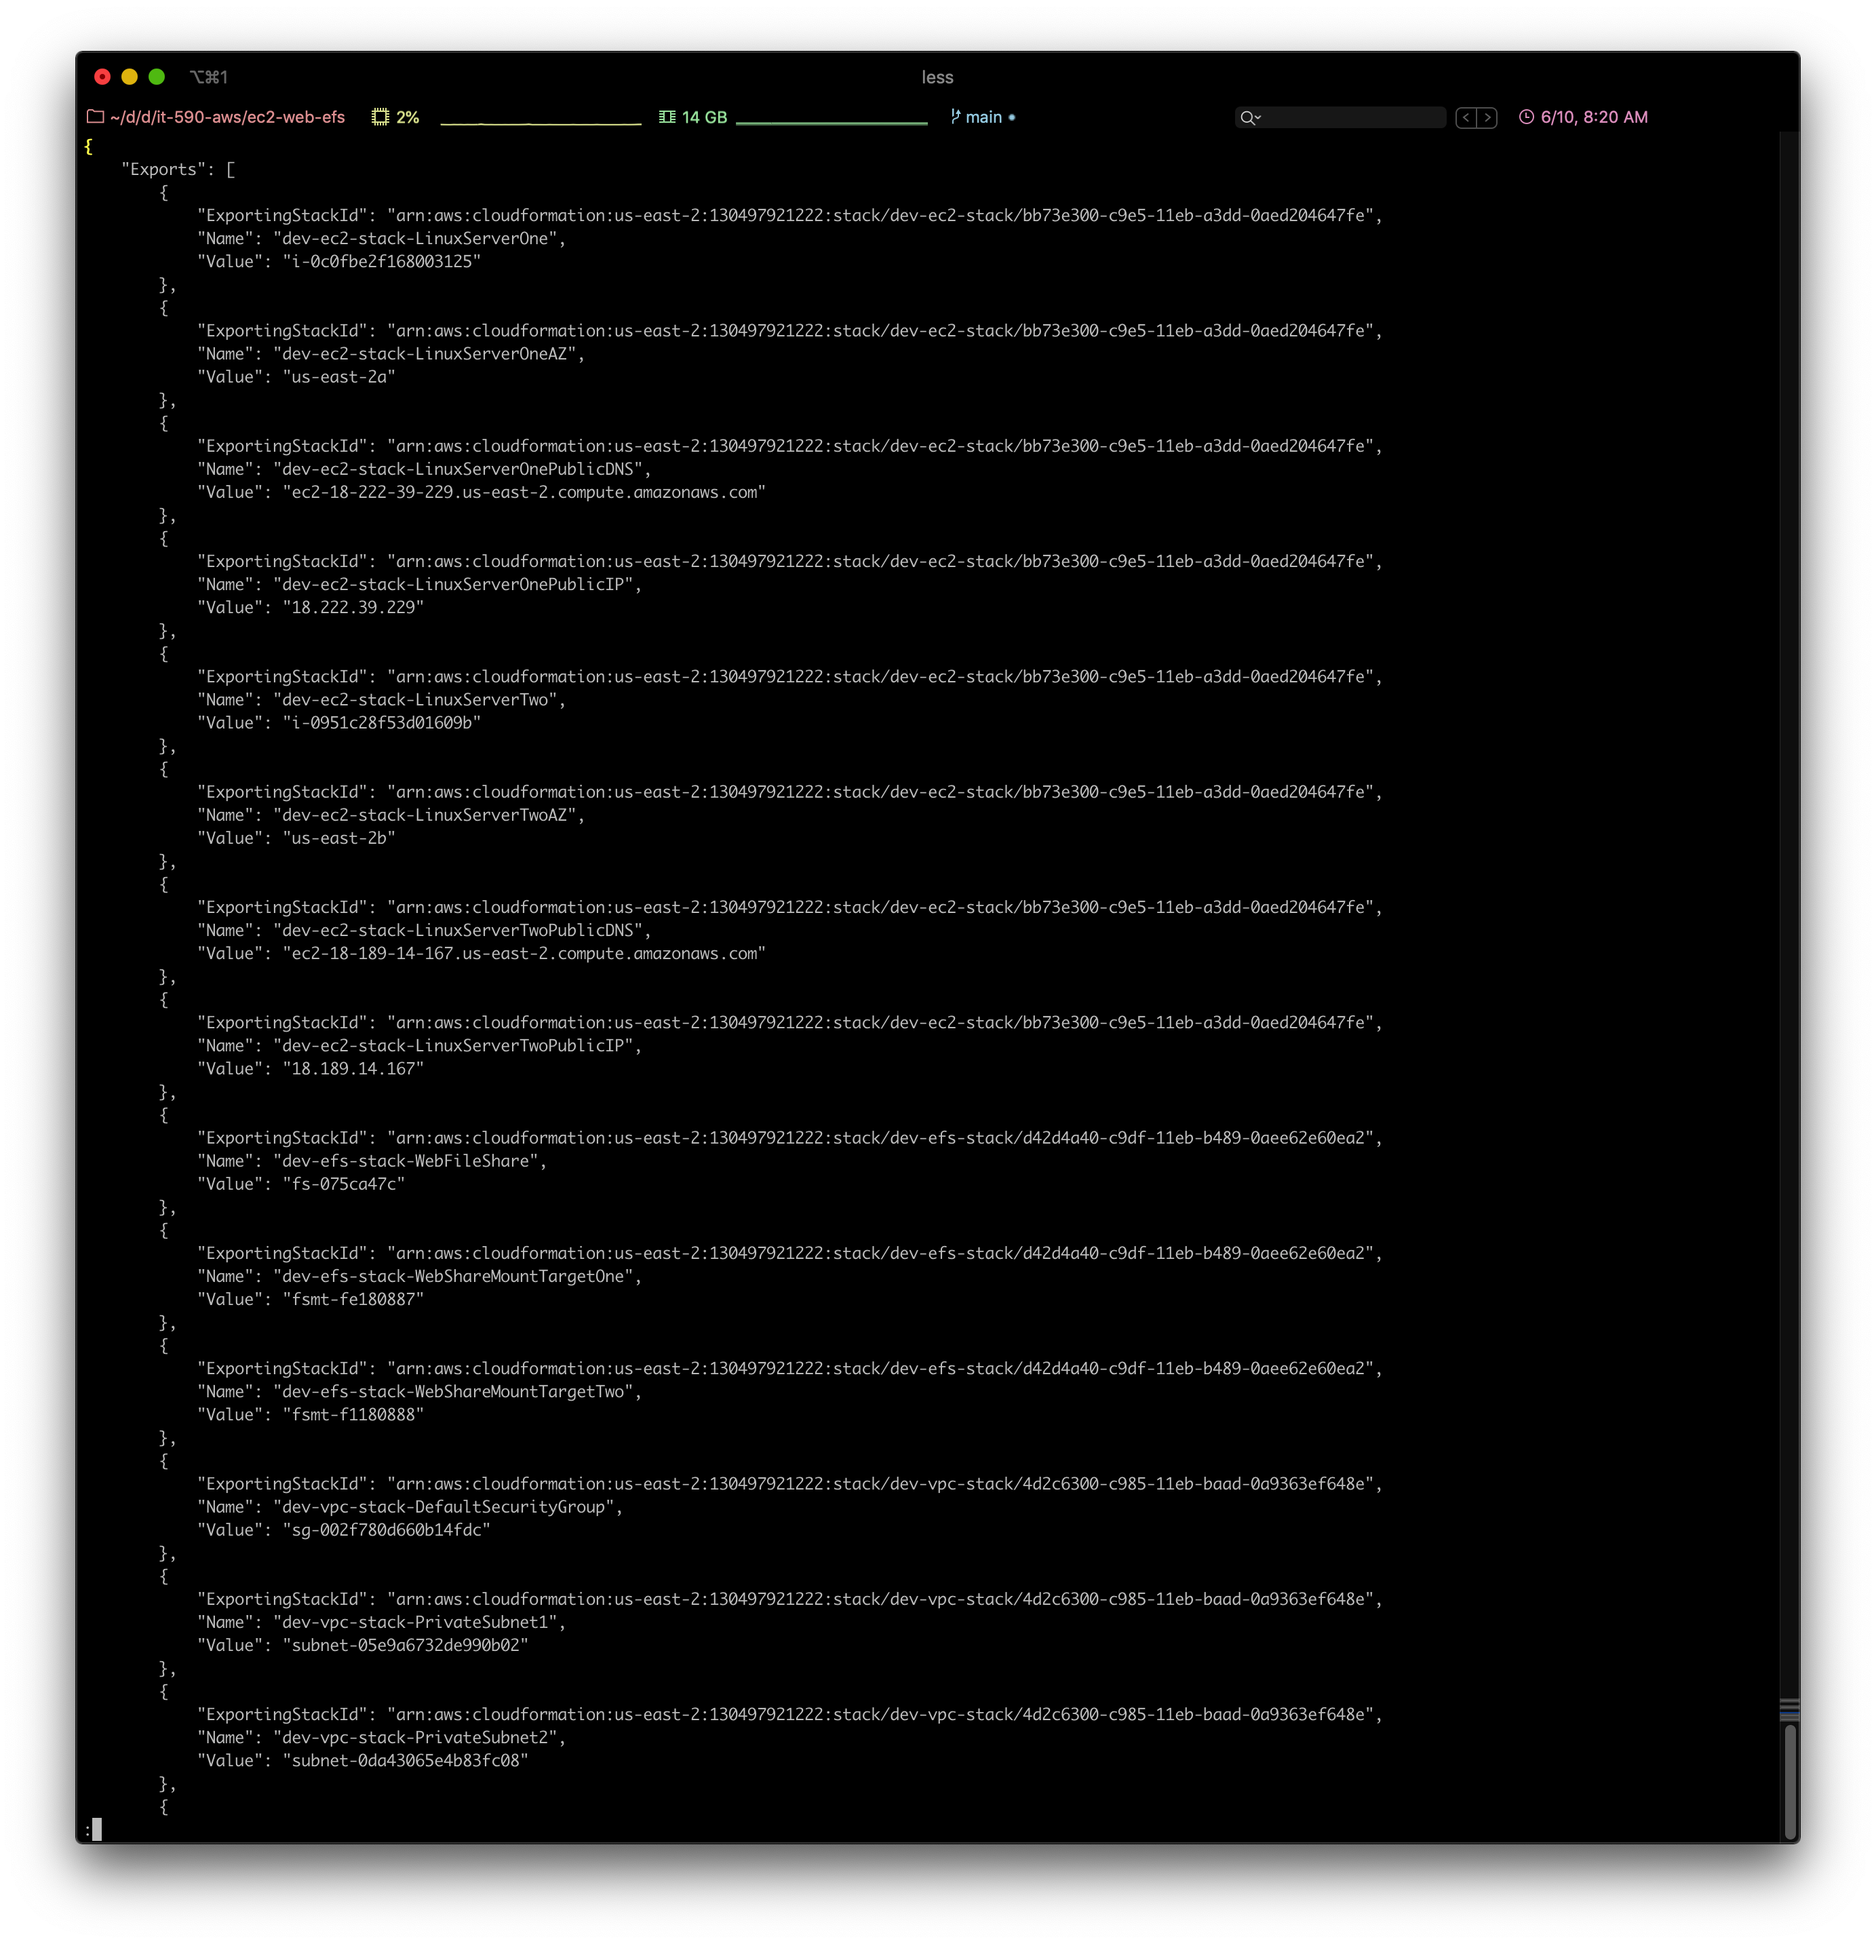
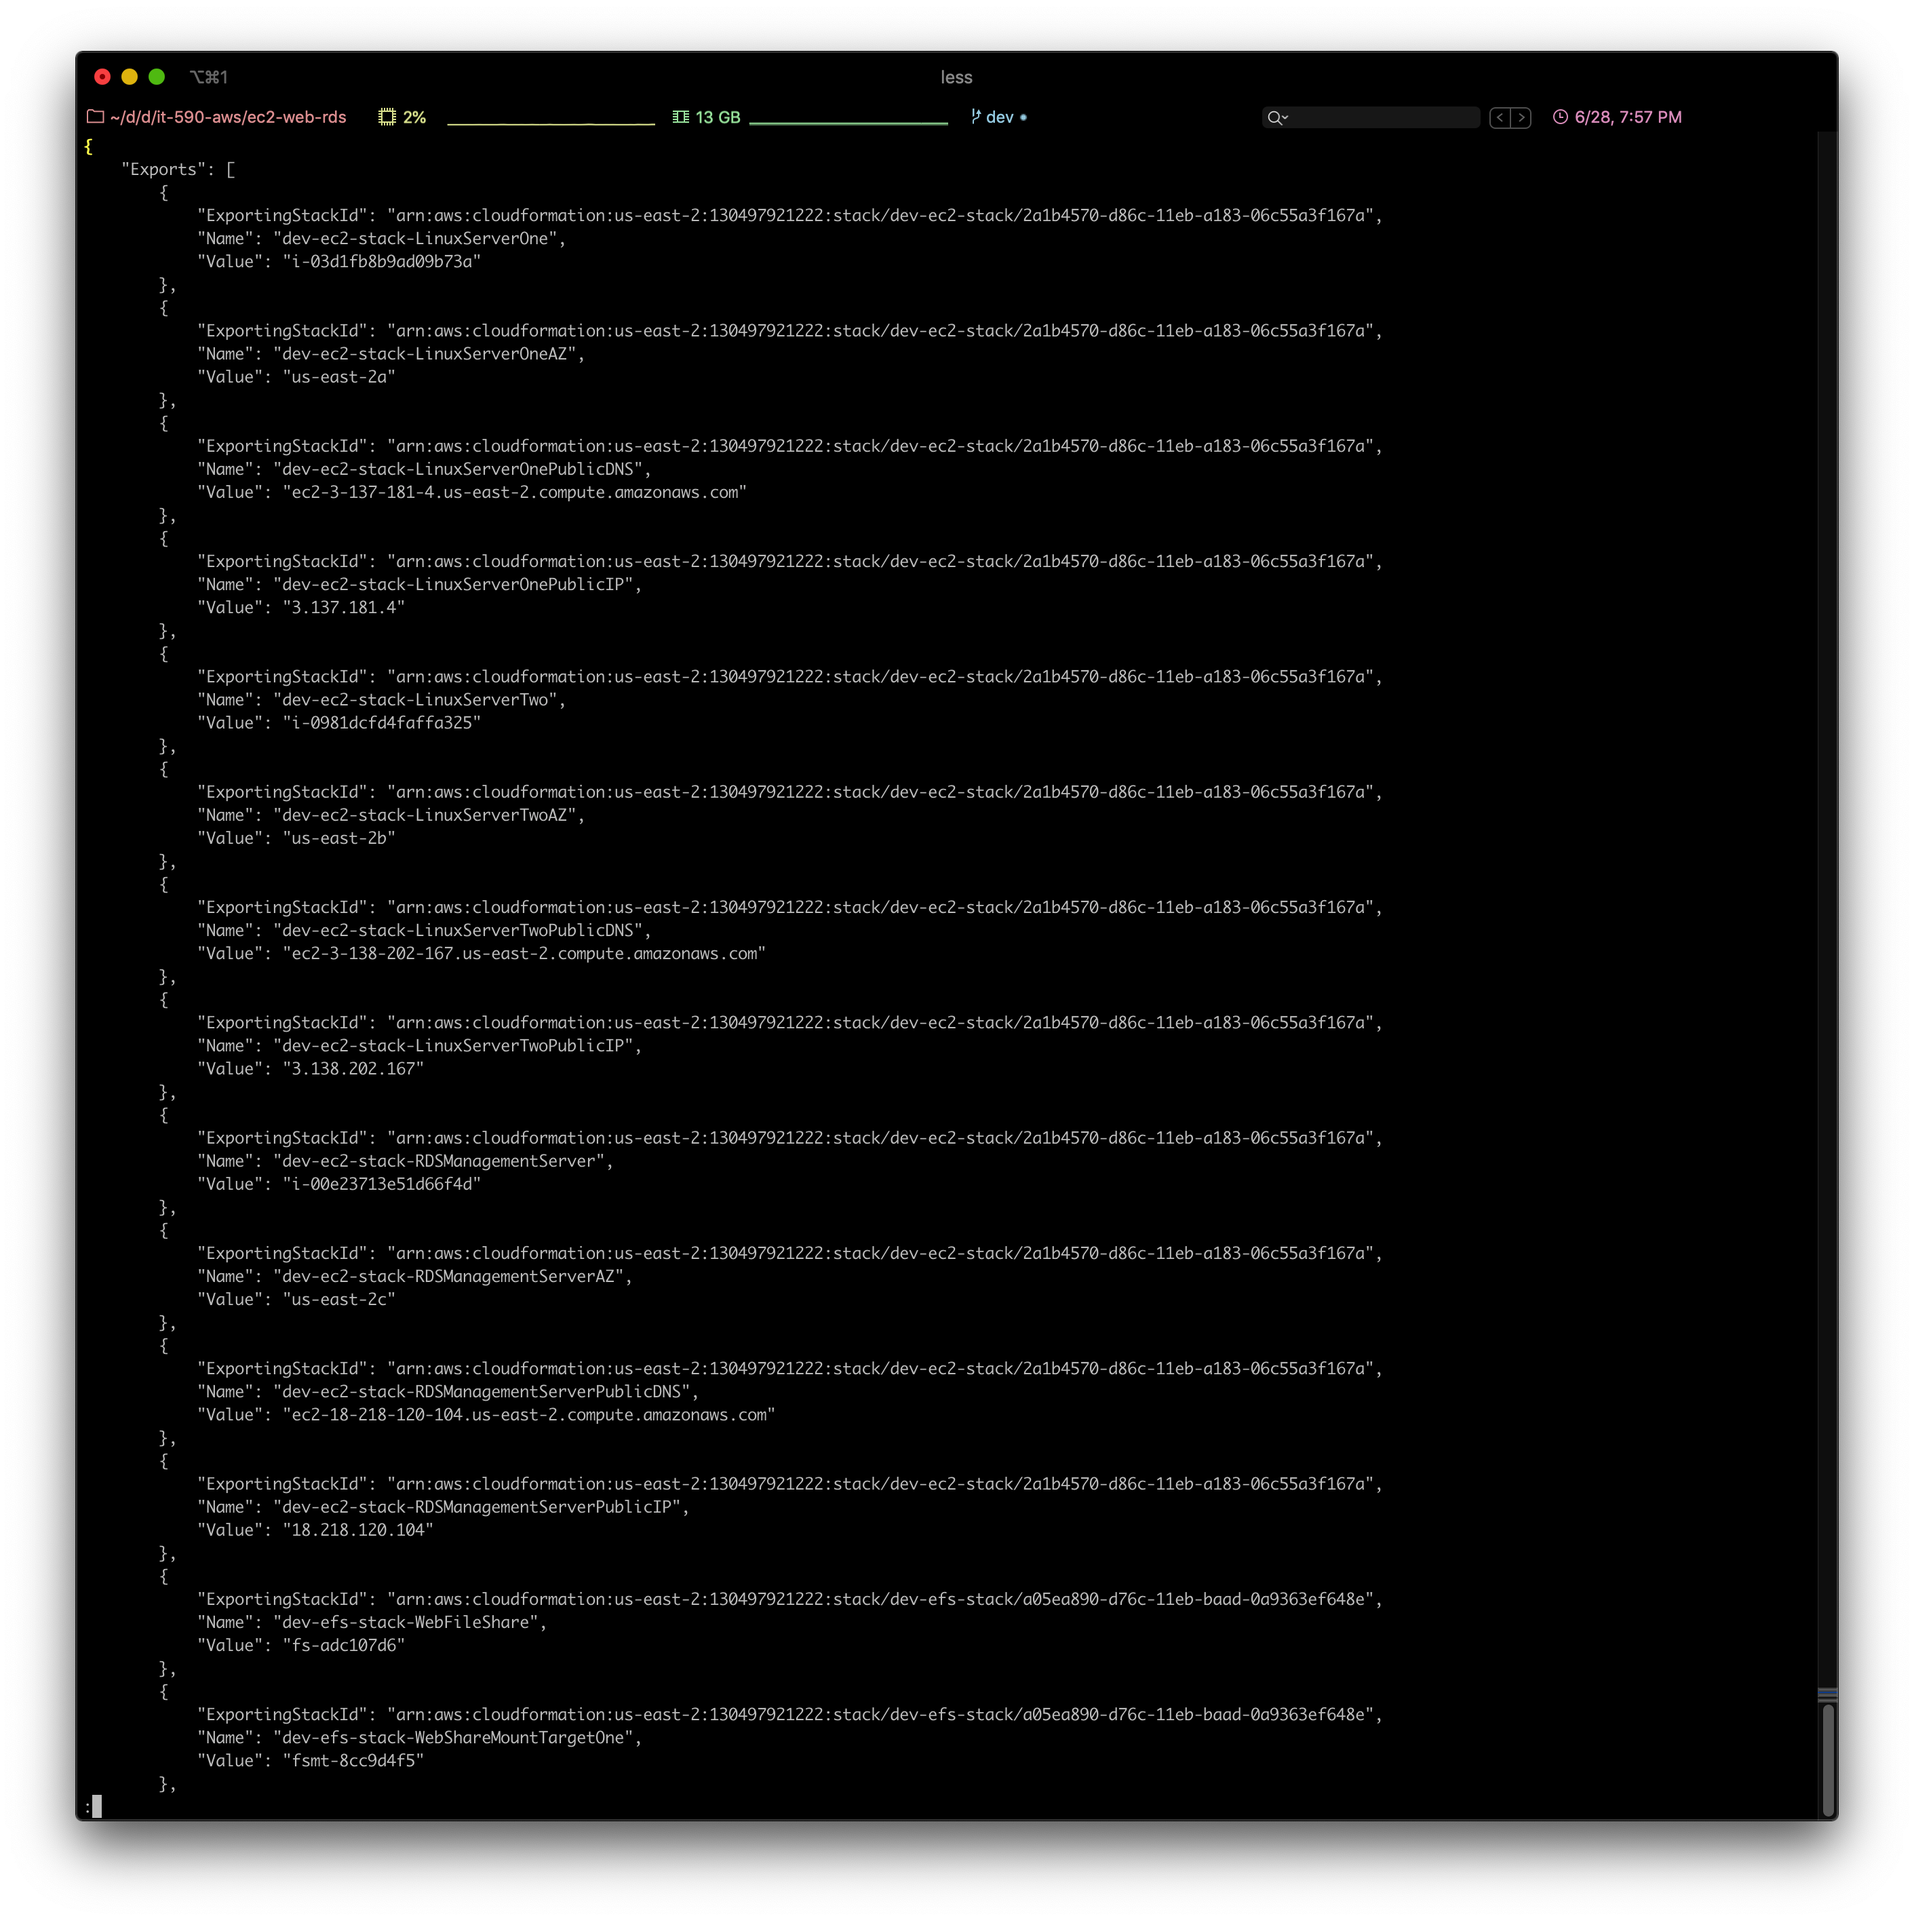
Documented recent examples.

diff --git a/ec2-web-rds/README.md b/ec2-web-rds/README.md
@@ -1,16 +1,18 @@
 # EC2 Web Server EFS and RDS Example
 
-This AWS CloudFormation example deploys three Linux servers into a public subnet in the custom (non-default) VPC created with the <a href="../vpc">vpc</a> example.
+This AWS CloudFormation example deploys three Linux servers into public subnets in the custom (non-default) VPC created with the <a href="../vpc">vpc</a> example.
 
-**Two instances serve as public-facing web servers:** LinuxServerOne and LinuxServerTwo. Each uses the EC2 UserData section to add bash shell instance initialization commands to install Apache and PHP. These two web servers use Elastic File System (EFS) shared volume and move the Apache document root to the `/webshare/www/html` mount point. Again, examine the UserData sections of each EC2 Linux instance to see the code required to bootstrap the instance.
+**Two instances serve as public-facing web servers:** *LinuxServerOne* and *LinuxServerTwo*. Each uses the EC2 UserData section to add bash shell instance initialization commands to install Apache and PHP. These two web servers use an **Elastic File System (EFS)** shared volume and move the Apache document root to the `/webshare/www/html` mount point. Again, examine the UserData sections of each EC2 Linux instance to see the code required to bootstrap the web server instances.
 
-**One instance serves as an RDS database management server:** RDSManagementServer. The phpMyAdmin MySQL admin web application is installed and server access is limited to a known IP via the RDSManagementSecurityGroup, which is defined in the VPC CloudFormation template.
+**One instance serves as an RDS database management server:** *RDSManagementServer*. The phpMyAdmin MySQL admin web application is installed and access to the website via http port 80 & and https port 443 is limited to a known IP via the *RDSManagementSecurityGroup*, which is defined in the VPC CloudFormation template.
 
 ## Depends On: <a href="../vpc">vpc</a>, <a href="../efs">efs</a>, <a href="../rds">rds</a>
 
 ## Deploying
 
-Prior to deploying, review/edit/customize build.sh scripts in each project as required. Note that for the RDS project to properly deploy, you'll need to add a database password to AWS Secrets Manager in us-east-1. Either name the secret the same name referenced in the RDS build.sh script or edit the script to reflect the secret name you used.
+Prior to deploying, review/edit/customize build.sh scripts in each project as required. **Note that for the RDS project to properly deploy, you'll need to add a database password to AWS Secrets Manager in us-east-1.** Either name the secret the same name referenced in the RDS build.sh script or edit the script to reflect the secret name you used.
+
+I recommend you delete all prior stacks as the VPC now uses three Availability Zones (AZs), and the RDS and EFS projects rely on these three AZs. Also, be sure to set the correct PEM key in the build.sh script of this project.
 
 - Deploy the VPC project first: <a href="../vpc">vpc</a>
 - Next, deploy <a href="../rds">rds</a>
@@ -22,7 +24,7 @@ From the command line run `aws cloudformation list-exports` to verify stack expo
 
 You can then run the following command to extract the EFS file system (fs) ID from the list of exports: `aws cloudformation list-exports --query "Exports [?contains(Name,'WebFileShare')].Value" --output text` You should see an output in the form: fs-00000000 (Example: fs-075ca47c). The --query parameter uses the JAMESPath JSON query language. Click to learn more about <a href="https://jmespath.org">JAMESPath</a>
 
-The <a href="../ec2-web-web">ec2-web-web</a> project's `build.sh` script *automatically* extracts the WebFileShare FS value from the list of stack exports.
+This project's `build.sh` script *automatically* extracts the WebFileShare FS value from the list of stack exports.
 From the command line run `./build.sh dev oh ec2` to deploy the ec2 dev stack into us-east-2. When the deployment script successfully completes, run `aws cloudformation list-exports` to list all stack exports. You output should be similar to, but not exactly as the following:
 
 <img src="diagrams/AWSExports2.png"></img>
@@ -103,8 +105,44 @@ Example: http://ec2-user@ec2-18-222-39-229.us-east-2.compute.amazonaws.com/test.
 
 # Configuring phpMyAdmin to Access RDS
 
-## Verify RDS Management Server Connectivity
+First, copy the public DNS of the RDSManagementServer from the exports list and test the phpMyAdmin application by adding `phpMyAdmin` to the server public DNS url like this example:
 
-## SSH Into RDS Management Server
+`http://ec2-18-218-120-104.us-east-2.compute.amazonaws.com/phpMyAdmin/`
 
-## Edit `/var/www/html/phpMyAdmin/config.inc.php`
+You should see a login screen like the one below:
+
+<img src="diagrams/LoginScreen1.png"></img>
+
+**Note:** If you can't access either the Apache test page or the phpMyAdmin login screen, you may have not set your home network IP as the allowed IP in the RDSManagementSecurityGroup in the VPC CloudFormation template parameter (AllowedIP).
+
+You need to modify the phpMyAdmin configuration file to add the RDS server to the server list. To do this, you need to SSH into the RDSManagementServer.
+
+SSH into the RDSManagementServer and navigate to the `/var/www/html/phpMyAdmin` directory and list the directory contents with `ls -al`. Your listing will be similar to what you see below:
+
+ <img src="diagrams/DirectoryListing.png"></img>
+
+ Copy the `config.sample.inc.php` file and name it `config.inc.php` like so: `sudo cp config.sample.inc.php config.inc.php` - List the directory again to verify the new file exists, then edit the  `config.inc.php` file (`sudo vi config.inc.php`) Locate the lines that say:
+ ```
+ /**
+  * End of servers configuration
+  */
+ ```
+ ...and just above it add the following lines:
+
+ ```
+ $i++;
+ $cfg['Servers'][$i]['host'] = 'dmayhnj7897mpu.c3ytpjg6w8pu.us-east-2.rds.amazonaws.com';
+ $cfg['Servers'][$i]['port'] = '3306';
+ $cfg['Servers'][$i]['verbose'] = 'RDS';
+ $cfg['Servers'][$i]['connect_type'] = 'tcp';
+ $cfg['Servers'][$i]['extension'] = 'mysql';
+ $cfg['Servers'][$i]['compress'] = TRUE;
+ ```
+
+ **Note:** You'll need to search the exports list, find the RDS Instance Address, and use it to set the `...['host']` value. Save the file, and refresh the login page. It should now have a drop-down list allowing you to select the RDS server as shown below:
+
+ <img src="diagrams/LoginScreen2.png"></img>
+
+Select RDS and login with the RDS username and password (stored in Secrets Manager) used to create the RDS instance. When you log in, you should see something like this:
+
+<img src="diagrams/PHPMyAdmin.png"></img>

diff --git a/README.md b/README.md
@@ -21,7 +21,7 @@ Collection of example CloudFormation templates, bash shell scripts, Dos/PowerShe
 
 ## Elastic File System (EFS)
 
-<a href="efs">efs/</a></br>
+<a href="efs">efs</a></br>
 **Depends On:** <a href="vpc/">vpc</a>
 
 ## Two EC2 Apache Web Servers with Shared EFS Volume
@@ -36,3 +36,36 @@ Collection of example CloudFormation templates, bash shell scripts, Dos/PowerShe
 ## Lambda Echo Server with Custom RestAPI
 
 <a href="lambda-echo-custom-api/">lambda-echo-custom-api</a>
+
+
+## Simple Notification Service (SNS)
+
+<a href="sns/">sns</a>
+
+## Simple Queue Service (SQS)
+
+<a href="sqs/">sqs</a>
+
+## Lambda Echo with SNS
+
+<a href="lambda-echo-sns/">lambda-echo-sns</a></br>
+**Depends On:** <a href="sns">sns</a>
+
+## DynamoDB
+
+<a href="dynamodb/">dynamodb</a>
+
+## Lambda Echo with SQS, SNS, and DynamoDB
+
+<a href="lambda-echo-sqs-dynamodb/">lambda-echo-sqs-dynamodb</a></br>
+**Depends On:** <a href="sns">sns</a> && <a href="sqs">sqs</a>&& <a href="dynamodb">dynamodb</a></br>
+
+## Relational Databae Service (RDS)
+
+<a href="rds/">rds</a></br>
+**Depends On:** <a href="vpc/">vpc</a>
+
+## EC2 with Two Web Servers, EFS, and an RDS Management Server
+
+<a href="ec2-web-rds/">ec2-web-rds</a></br>
+**Depends On:** <a href="vpc/">vpc</a> && <a href="rds/">rds</a></br>

diff --git a/vpc/README.md b/vpc/README.md
@@ -16,7 +16,7 @@ Pictured below is a custom VPC that has both public and private subnets. A subne
 
 # Deploying the VPC
 ---------
-The VPC CloudFormation template given in this project `vpc.yml` defines a custom VPC with three public and two private subnets, an Internet Gateway, NAT Gateway, NACL, RouteTables, Routes, and a Security Group that limits access to a known IP address. Feel free to customize as you see fit.
+The VPC CloudFormation template given in this project `vpc.yml` defines a custom VPC with three public and three private subnets, an Internet Gateway, NAT Gateway, NACL, RouteTables, Routes, and a Security Group that limits access to a known IP address. Feel free to customize as you see fit.
 
   * Install and configure AWS CLI
   * On Windows -- Install Git with Unix/Linux tools for access to bash shell
